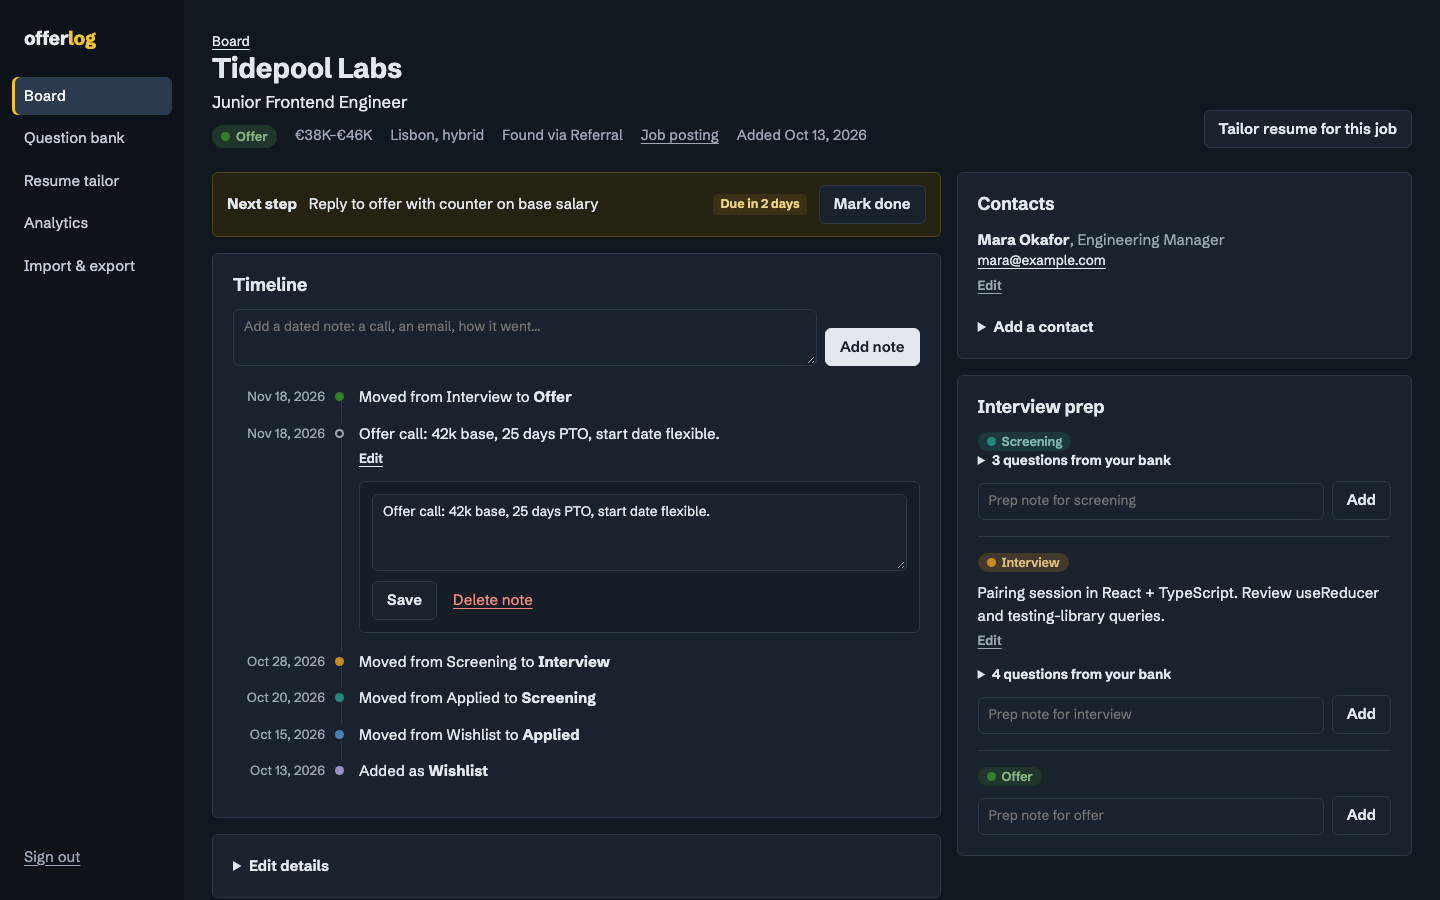
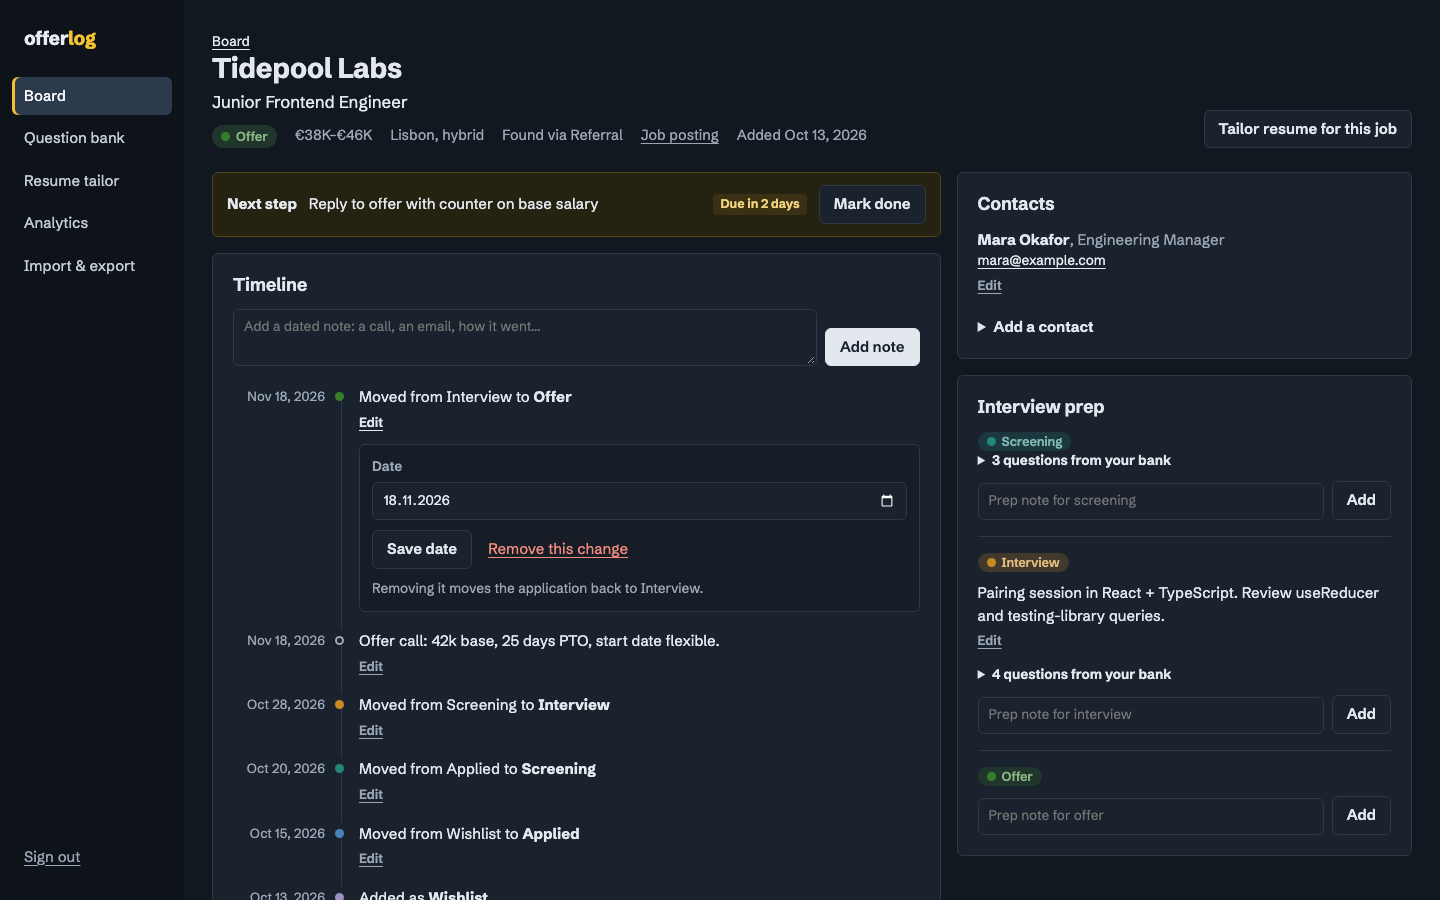
Document correcting stage history; refresh screenshots

Changed region(s): [[0.1562, 0.4667, 0.6562, 1.0]]

diff --git a/README.md b/README.md
@@ -48,6 +48,7 @@ Behind a reverse proxy, forward the original `Host` (or `X-Forwarded-Host`) and 
 - **Board** with seven stages: wishlist, applied, screening, interview, offer, rejected, ghosted. Drag cards between columns, or use the stage menu on each card (works with keyboard and touch), and filter the board by company, role, place or source. An **Up next** strip lists next steps by due date and flags overdue ones.
 - **Applications** with company, role, posting link, salary range and currency, location and work mode (onsite, hybrid, remote), source, job description, and a next step with a due date.
 - **Timeline** per application: every stage change is recorded automatically, alongside your own dated notes. Marking a next step done logs it to the timeline. Notes can be edited in place and keep their original date.
+- **Correct the history**: analytics are only as good as the dates behind them, so each stage change on the timeline can be moved to the day it really happened (a reply you logged three days late), or removed when it was a mistake (a card dropped in the wrong column, which would otherwise count as an offer in the funnel forever). Removing the latest change moves the application back to its previous stage. When you add an application you were already working on, give the day it reached its stage; in a CSV import, the `created_at` column does the same.
 - **Contacts** per application (name, title, email, profile link), editable in place.
 - **Interview prep** per stage (screening, interview, offer), with the matching questions from your **question bank** listed next to your notes.
 - **Resume tailor**: paste a job description (or load one saved on an application) and your resume as plain text or Markdown. A local, deterministic report shows which skills and tools from the posting your resume covers or misses, seniority words on both sides, and repeated posting words you never use. With `ANTHROPIC_API_KEY` set, you can also ask Claude to rewrite specific bullet points toward the posting; it is told not to invent experience.
@@ -60,14 +61,14 @@ Behind a reverse proxy, forward the original `Host` (or `X-Forwarded-Host`) and 
 | --- | --- | --- |
 | ![Application detail with timeline, contacts and prep](docs/screenshots/application.png) | ![Keyword gap report](docs/screenshots/tailor.png) | ![Funnel, weekly goal and sources](docs/screenshots/analytics.png) |
 
-| Dark theme, editing a note | Board on a phone | Analytics on a phone, dark |
+| Dark theme, redating a stage change | Board on a phone | Analytics on a phone, dark |
 | --- | --- | --- |
-| ![Application detail in the dark theme with a note's edit panel open](docs/screenshots/application-dark.png) | ![The board at 390px wide, one column in view](docs/screenshots/mobile-board.png) | ![Analytics at 390px wide in the dark theme](docs/screenshots/mobile-analytics-dark.png) |
+| ![Application detail in the dark theme with a stage change's date panel open](docs/screenshots/application-dark.png) | ![The board at 390px wide, one column in view](docs/screenshots/mobile-board.png) | ![Analytics at 390px wide in the dark theme](docs/screenshots/mobile-analytics-dark.png) |
 
 ## How it works
 
 - **Stack**: Next.js App Router with server components and server actions, SQLite through Drizzle ORM and `better-sqlite3`. Migrations in `drizzle/` run automatically on startup.
-- **Stage history is the source of truth.** Each stage change writes a row to `events`. An application counts as sent from its first move past wishlist (rejected and ghosted imply it was sent). The funnel counts the furthest stage each application reached, so skipping a stage counts as passing it. A reply is a move to screening, interview, offer or rejected; ghosted is not a reply. Time to reply is measured from the applied event, so an application logged straight into screening counts as replied but has no reply time. The weekly chart counts each application once, in the week it was sent. See `src/lib/analytics.ts`.
+- **Stage history is the source of truth.** Each stage change writes a row to `events`. An application counts as sent from its first move past wishlist (rejected and ghosted imply it was sent). The funnel counts the furthest stage each application reached, so skipping a stage counts as passing it. A reply is a move to screening, interview, offer or rejected; ghosted is not a reply. Time to reply is measured from the applied event, so an application logged straight into screening counts as replied but has no reply time. The weekly chart counts each application once, in the week it was sent. See `src/lib/analytics.ts`. Corrections keep the history consistent (`setEventDate` and `removeEvent` in `src/lib/data.ts`): a redated change cannot jump past its neighbours, and after a removal the following entries are re-linked and a move straight back is dropped too.
 - **Keyword gaps** (`src/lib/keywords.ts`) match a curated vocabulary of about 140 skills and tools, with aliases (`k8s` counts as Kubernetes, `Postgres` as PostgreSQL) and symbol-aware word boundaries so `Java` does not match inside `JavaScript` and `C++`, `C#` and `.NET` work. No network call, no model: the same input always gives the same report.
 - **AI rewrite** (`src/lib/ai.ts`) sends only the job description and the bullets you paste to the Anthropic Messages API (`claude-opus-5-5`, with server-side fallback on refusals). It only runs when you press the button and the key is set.
 - **Security**: the password is checked against an scrypt hash with a constant-time compare. Sessions are random 256-bit tokens; only an HMAC of each, keyed by the password hash, is stored, so changing `OFFERLOG_PASSWORD_HASH` signs out every session. The cookie is HttpOnly and `SameSite=Lax`. Failed sign-ins are limited to 5 per client (keyed on the last `X-Forwarded-For` hop, the one your proxy adds) and 30 overall per 15 minutes. Every server action and route checks the session and validates its input; Next.js rejects server action requests whose `Origin` does not match the host. CSV exports neutralise spreadsheet formulas and are sent with `Cache-Control: no-store`. Every response forbids framing and MIME sniffing. CI fails on a known advisory in a runtime dependency.

diff --git a/CHANGELOG.md b/CHANGELOG.md
@@ -4,7 +4,25 @@ All notable changes to this project are documented here. The format follows [Kee
 
 ## [Unreleased]
 
-Latest, security pass: auth, sessions, input validation, injection and SSRF sinks, XSS, headers, git history, dependencies, CI and Docker defaults were reviewed, and each finding was checked against the running app before it was fixed.
+Latest, feature round: correcting stage history. Using the app as a newcomer showed two ways the analytics went wrong with no fix in the UI: a card moved to the wrong column and back (Applied, Offer, Applied) counted as an offer in the funnel for good, and every application entered after the fact was dated today, so the weekly chart and time to reply were wrong from day one.
+
+### Added
+
+- Each stage change on an application's timeline has an **Edit** panel: change its date, or **Remove this change** (not offered for the first entry). Redating keeps the local time of day; a date before the previous change or after the next one is refused with a message naming that change, and on a neighbour's day the time is nudged by a second so the order holds. Redating the first entry also moves the application's "Added" date. Removing re-links the following entries, drops a move straight back to the same stage, and sets the application's stage to its last remaining entry (`setEventDate`, `removeEvent` in `src/lib/data.ts`; actions `updateEventDate`, `removeEvent`).
+- The add-application form has a **Date** field: the day the application reached its stage, if not today. Future dates are refused (`pastDay` in `src/lib/validate.ts`).
+- Tests: redating (order, neighbour limits, nudging, never after now, first entry carries the application date), removing (misdrop no longer counted by `funnel`, re-linking, moving the stage back, first entry refused), `onDay` across the Auckland/UTC date line, `pastDay`; the smoke test backfills a date on a new application and removes a wrong move from the timeline.
+
+### Changed
+
+- README screenshots regenerated; the dark one now shows a stage change's date panel.
+
+### Notes for the next agent
+
+- Event order is by `at` (then id); `setEventDate` guarantees strictly increasing timestamps per application, which `analytics.ts` relies on to find the "sent" event.
+- `onDay` in `src/lib/format.ts` uses the server's `TZ`, like `today()` and the analytics weeks.
+- Still open from earlier rounds: the AI rewrite is only tested with a mocked client, no manual theme switch, no `script-src` CSP, 4 dev-only drizzle-kit advisories.
+
+Earlier, security pass: auth, sessions, input validation, injection and SSRF sinks, XSS, headers, git history, dependencies, CI and Docker defaults were reviewed, and each finding was checked against the running app before it was fixed.
 
 ### Fixed
 
